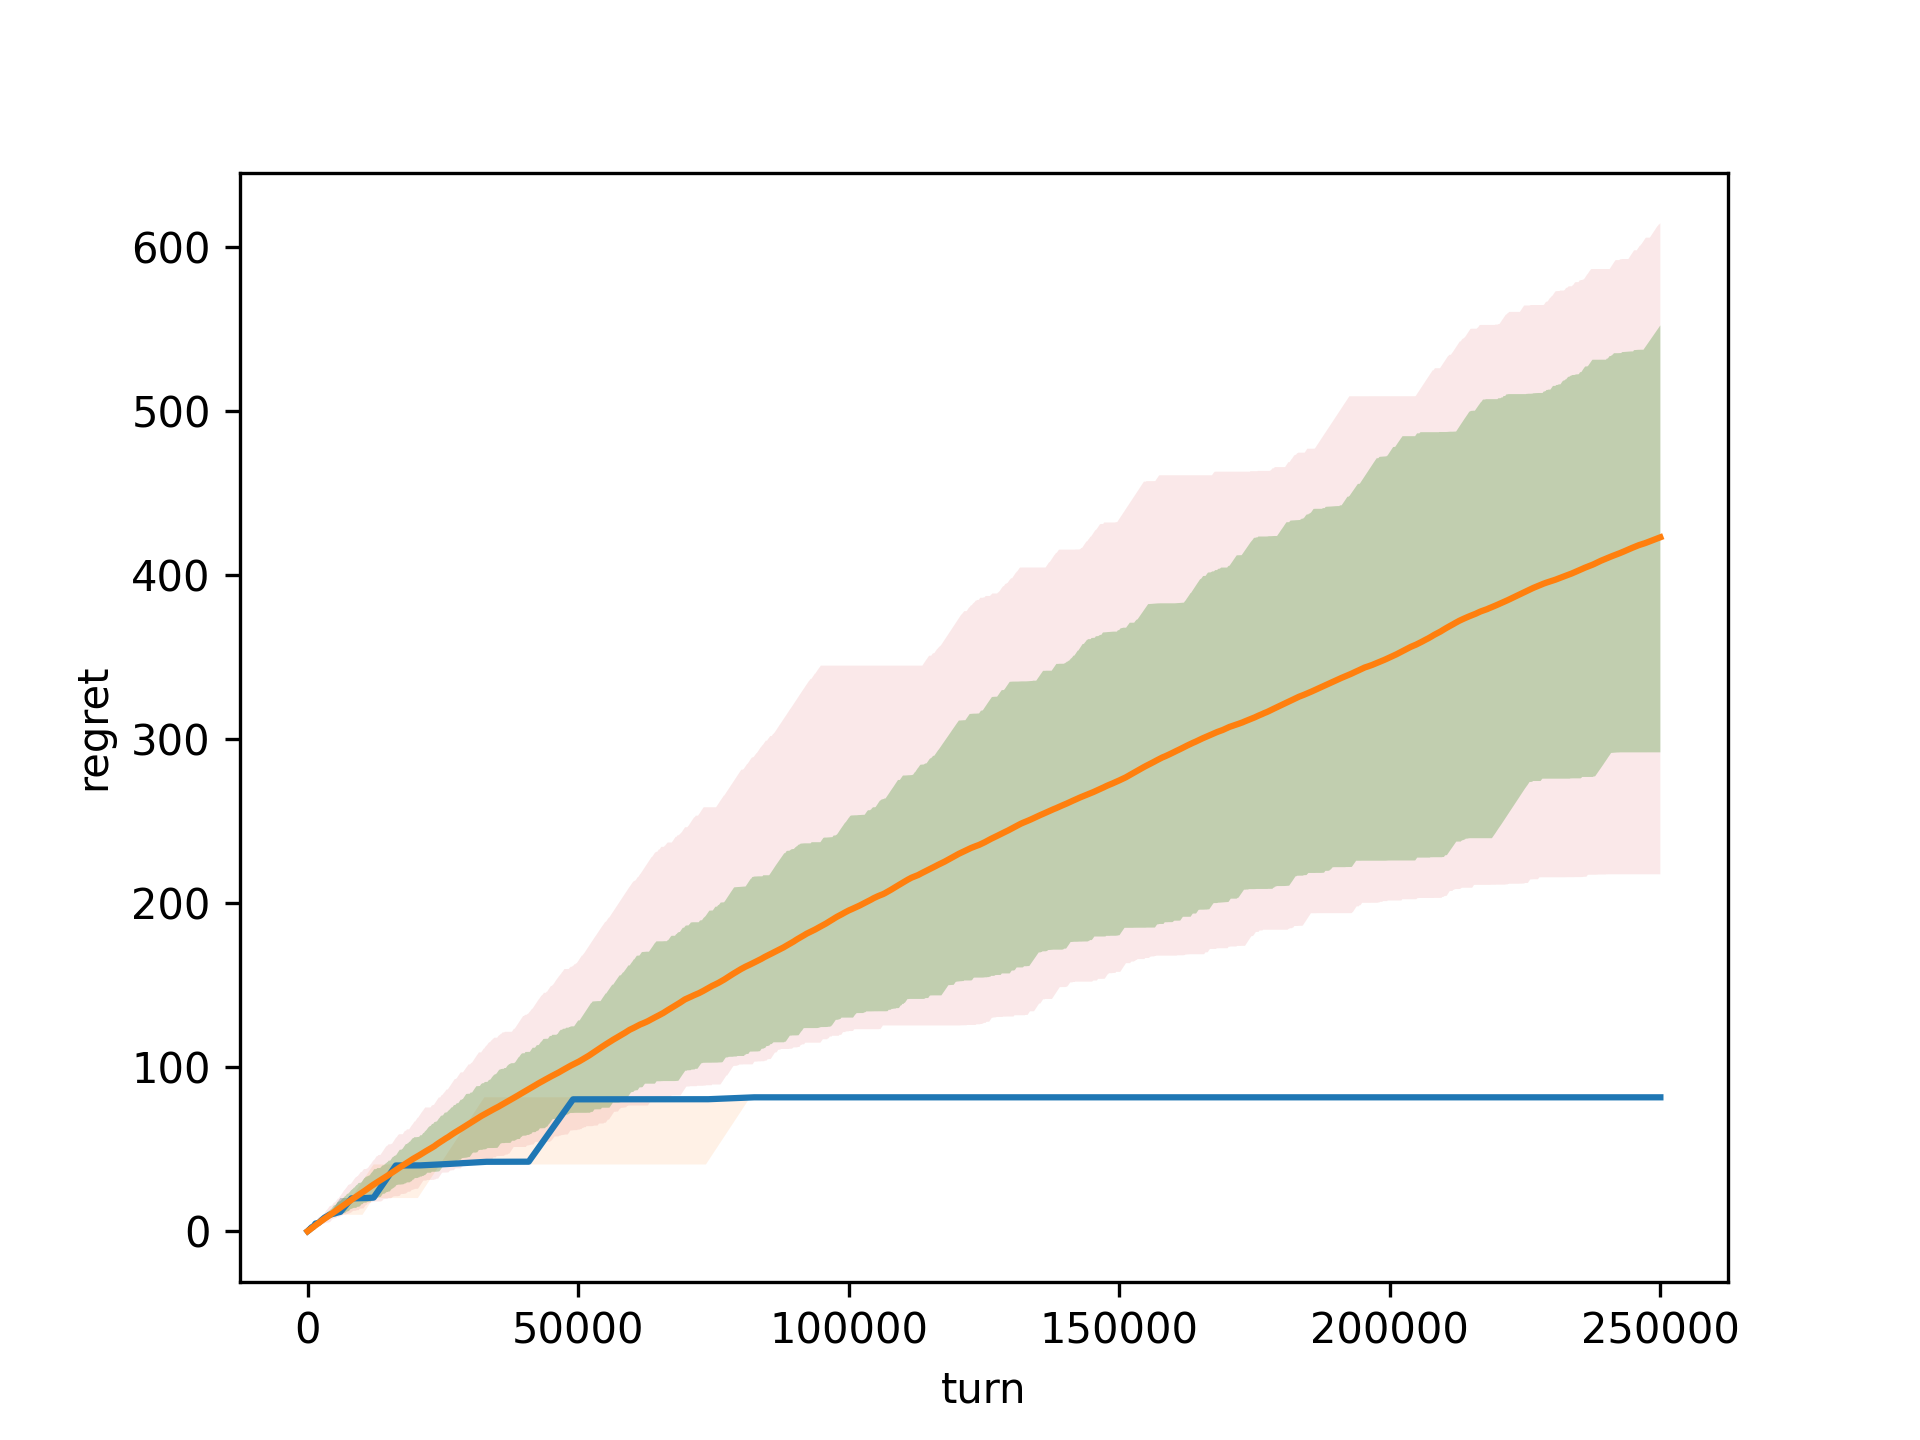
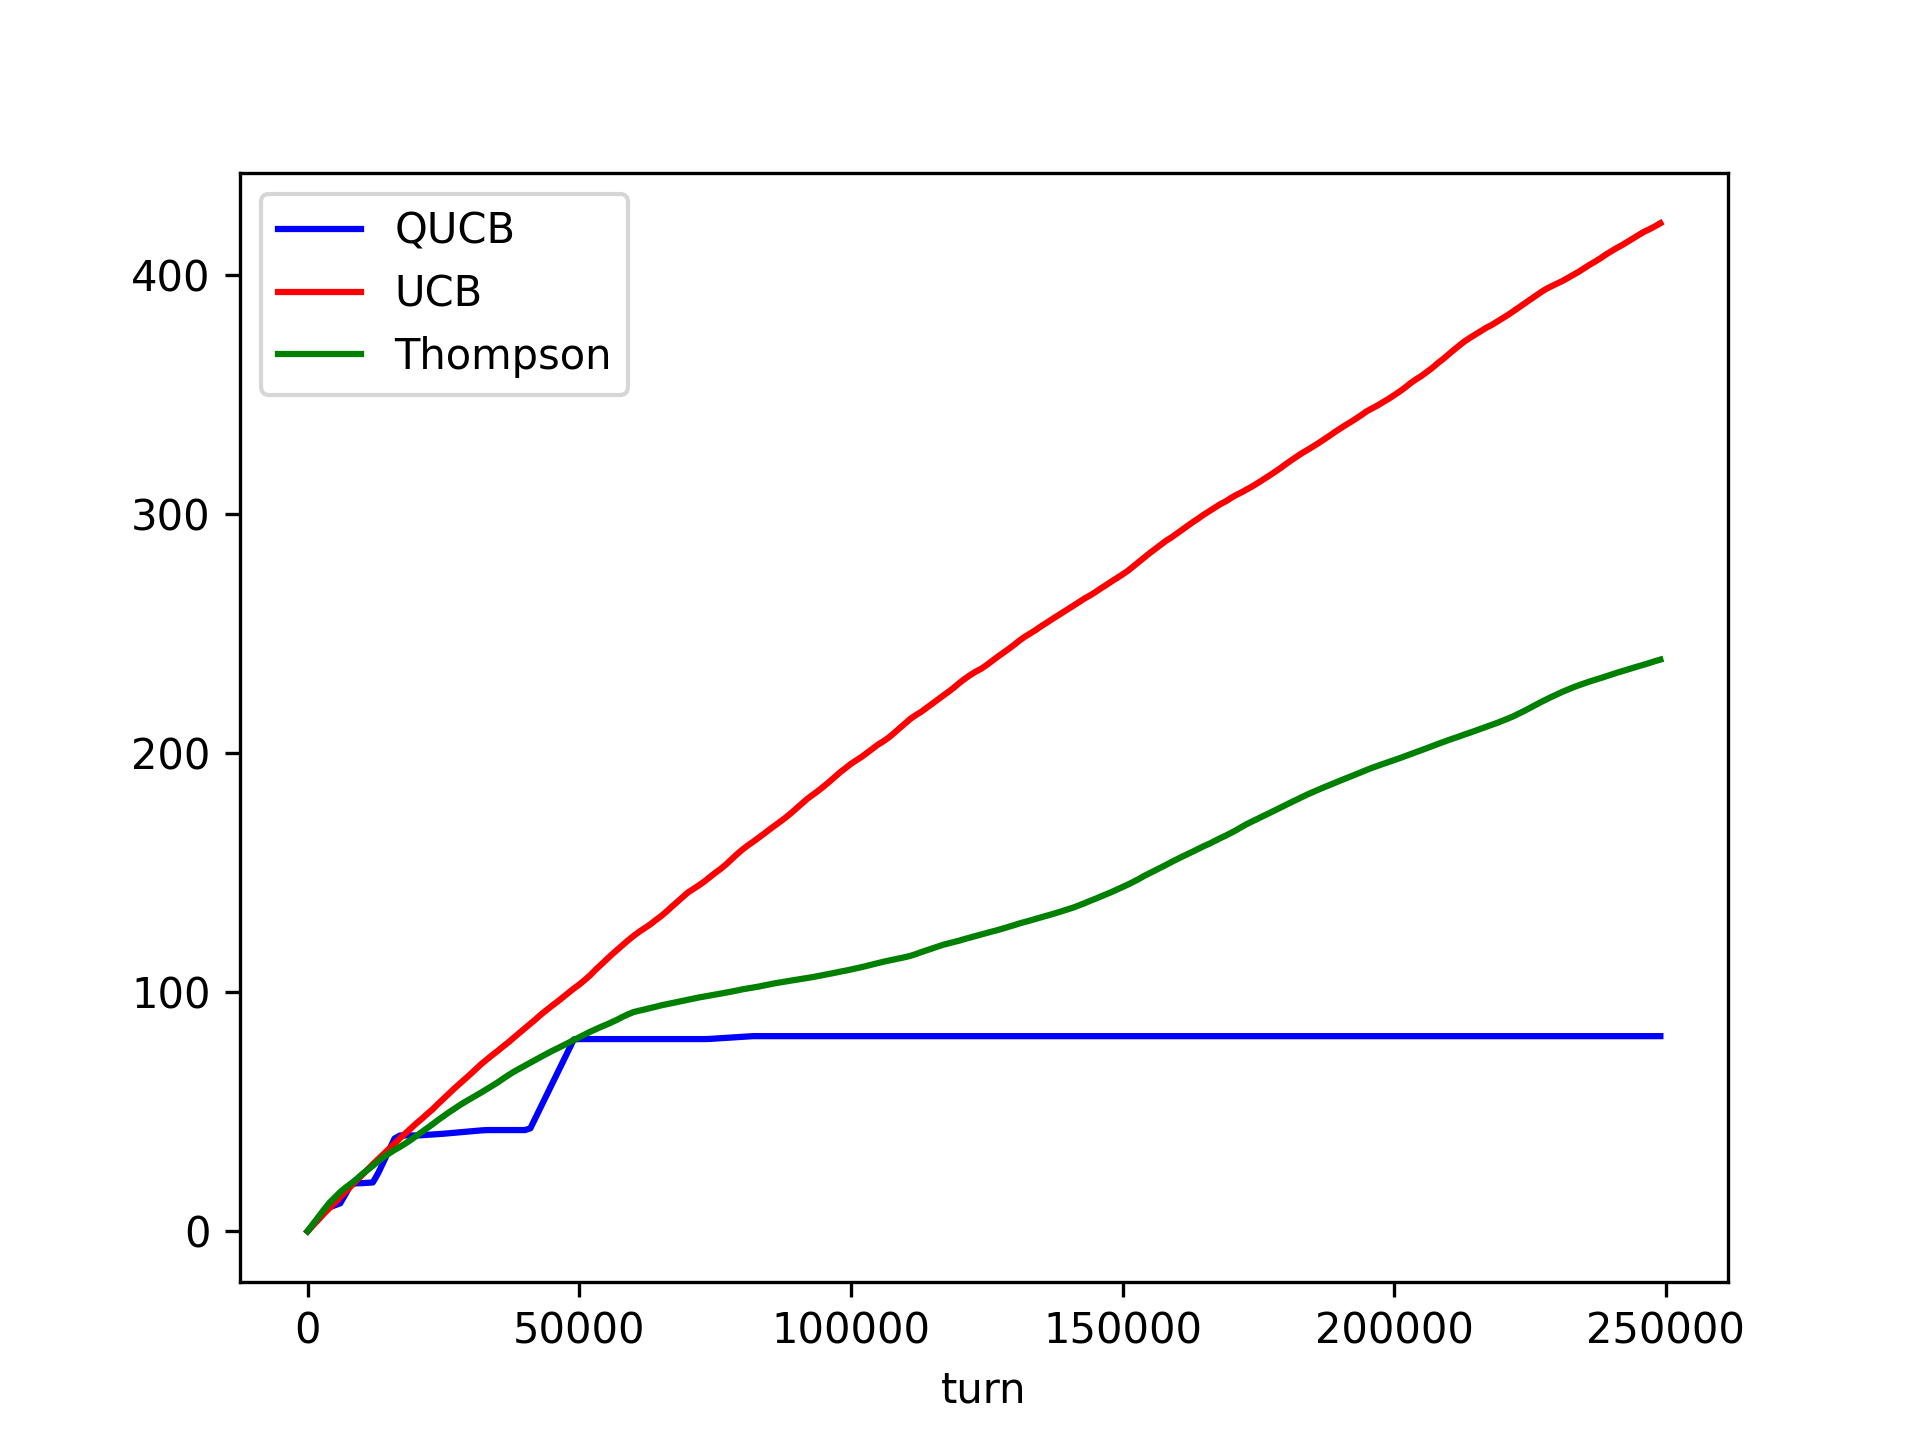
add thompson

diff --git a/code/wan/results/big2/results.py b/code/wan/results/big2/results.py
@@ -9,16 +9,38 @@ P_LIST = np.array([0.5, 0.505])
 DELTA = 0.01
 C1 = 2
 
+
+# %%
+df_list = []
+for i in range(N_SIMULATIONS):
+    df = pd.read_csv(f"thompson_{i}.csv")
+    df["simulation"] = i
+    df_list.append(df)
+
+df_thompson = pd.concat(df_list)
+
+# %%
+df_thompson.to_parquet("thompson.parquet", index=False, compression="brotli")
+
+
+# %%
+
 df_qucb = pd.read_parquet("qucb.parquet").set_index(["simulation", "turn"])
 df_qucb = df_qucb[df_qucb.index.get_level_values("turn") % 1_000 == 0]
 df_ucb = pd.read_parquet("ucb.parquet").set_index(["simulation", "turn"])
 df_ucb = df_ucb[df_ucb.index.get_level_values("turn") % 1_000 == 0]
+df_thompson = pd.read_parquet("thompson.parquet").set_index(
+    ["simulation", "turn"]
+)
+df_thompson = df_thompson[
+    df_thompson.index.get_level_values("turn") % 1_000 == 0
+]
 
 
 # %%
 def plot(df, color, label):
     # df.regret.groupby("turn").median().plot(color=color)
-    df.regret.groupby("turn").mean().plot(color=color)
+    df.regret.groupby("turn").mean().plot(color=color, label=label)
     # plt.fill_between(
     #     df.regret.groupby("turn").mean().index,
     #     df.regret.groupby("turn").quantile(0.05),
@@ -33,13 +55,21 @@ def plot(df, color, label):
     #     alpha=0.1,
     #     color=color,
     # )
+    # plt.fill_between(
+    #     df.regret.groupby("turn").mean().index,
+    #     df.regret.groupby("turn").mean() - df.regret.groupby("turn").std(),
+    #     df.regret.groupby("turn").mean() + df.regret.groupby("turn").std(),
+    #     alpha=0.3,
+    #     color=color,
+    # )
 
 
 plot(df_qucb, "blue", "QUCB")
 plot(df_ucb, "red", "UCB")
+plot(df_thompson, "green", "Thompson")
 
-
-# plt.savefig("regret.png", dpi=300)
+plt.legend()
+plt.savefig("regret.png", dpi=300)
 
 
 # %%

diff --git a/code/wan/runjobs.py b/code/wan/runjobs.py
@@ -5,6 +5,7 @@ import numpy as np
 import pandas as pd
 from loguru import logger
 from qucb1 import QUCB1
+from scipy.stats import beta
 
 
 def run_qucb1(
@@ -25,14 +26,38 @@ def run_qucb1(
     ).to_csv(Path("results") / "big2" / f"{filename}.csv", index_label="turn")
 
 
+def run_thompson(filename: str, p_list: np.ndarray, horizon: int) -> None:
+    posteriors = [{"a": 1, "b": 1} for _ in p_list]
+    regret = np.zeros(horizon)
+
+    p_max = np.max(p_list)
+
+    for t in range(horizon):
+        arm = np.argmax([beta.rvs(**post) for post in posteriors])
+        reward = np.random.binomial(1, p_list[arm])
+        posteriors[arm]["a"] += reward
+        posteriors[arm]["b"] += 1 - reward
+        regret[t] = p_max - p_list[arm]
+
+    regret = np.cumsum(regret)
+    pd.DataFrame({"regret": regret}).to_csv(
+        Path("results") / "big2" / f"{filename}.csv", index_label="turn"
+    )
+    logger.success(f"{filename} finished")
+
+
 if __name__ == "__main__":
     p_list = np.array([0.5, 0.505])
-    horizon = 200_000
-    delta = 0.01
+    horizon = 250_000
+    # delta = 0.01
 
     tasks = np.arange(100)
     with multiprocessing.Pool() as pool:
+        # pool.starmap(
+        #     run_qucb1,
+        #     [(f"qucb1_{task}", p_list, horizon, delta) for task in tasks],
+        # )
         pool.starmap(
-            run_qucb1,
-            [(f"qucb1_{task}", p_list, horizon, delta) for task in tasks],
+            run_thompson,
+            [(f"thompson_{task}", p_list, horizon) for task in tasks],
         )
